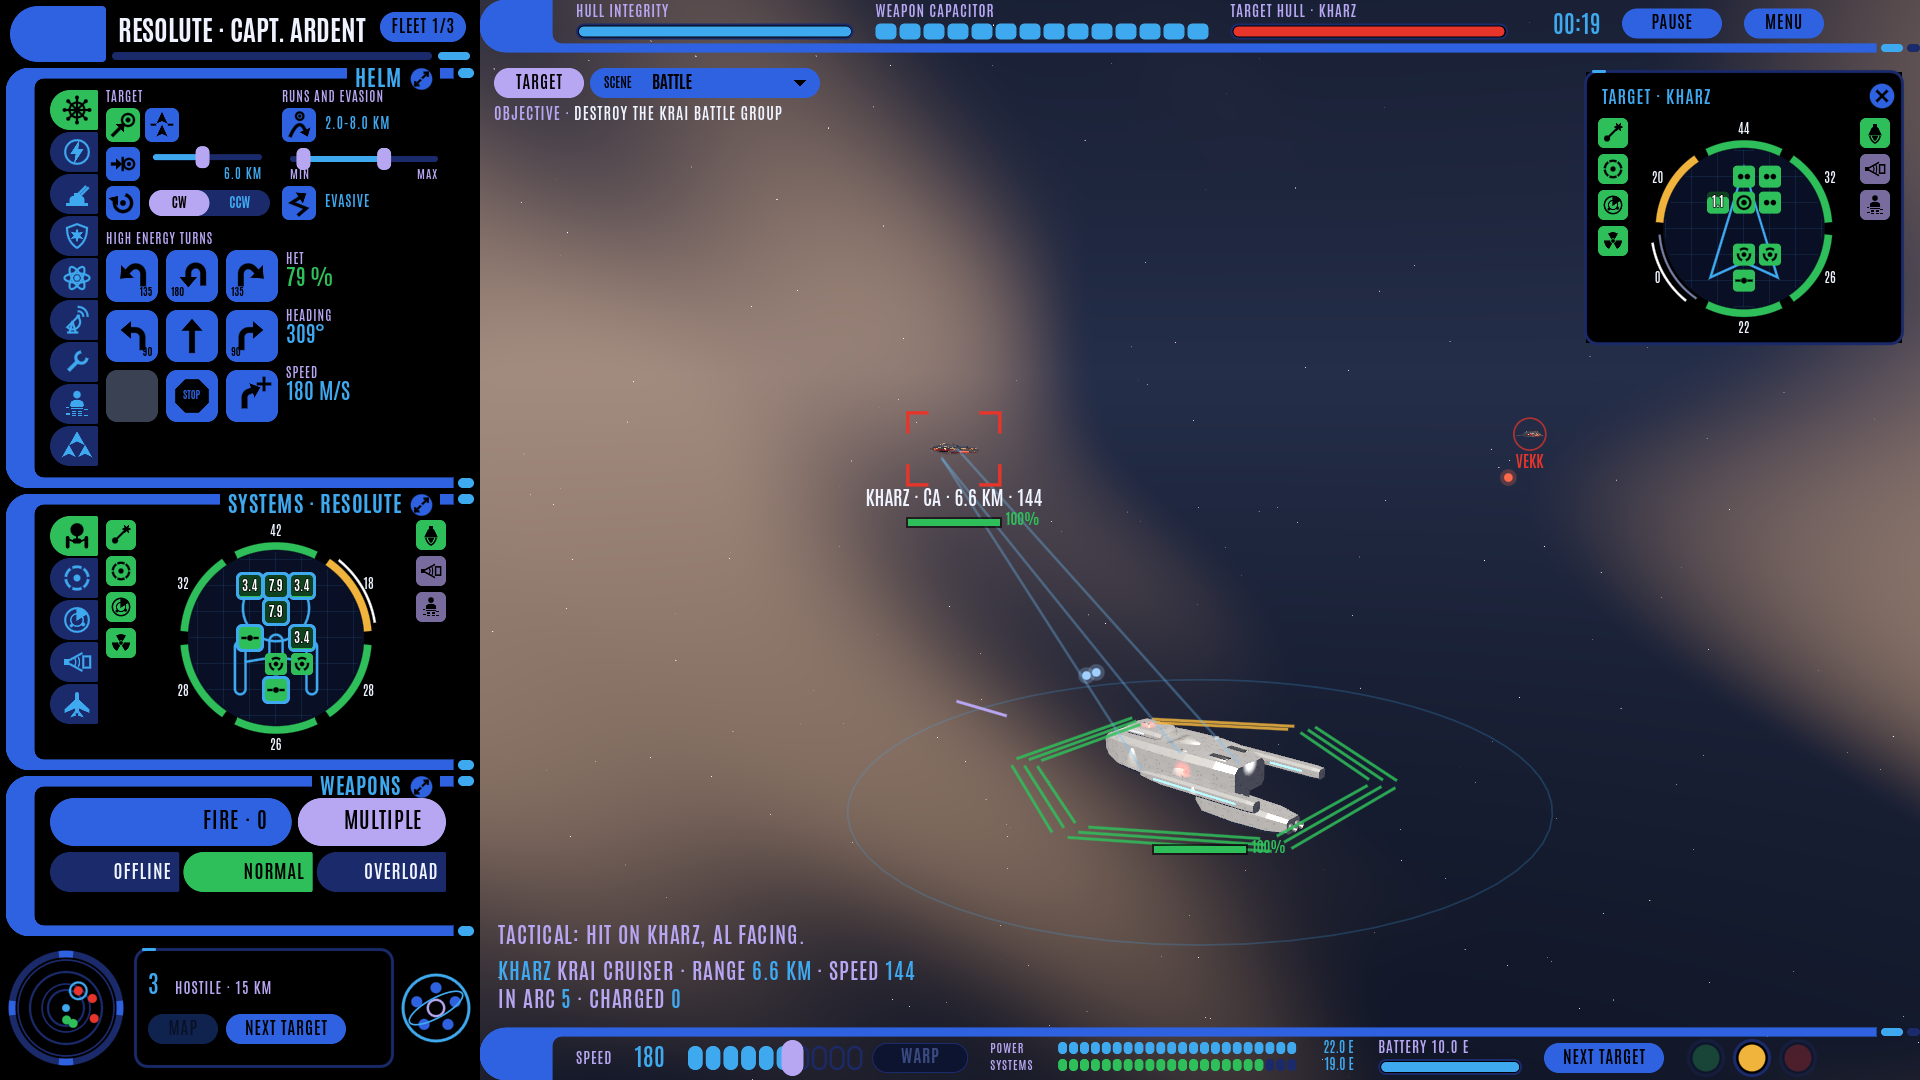
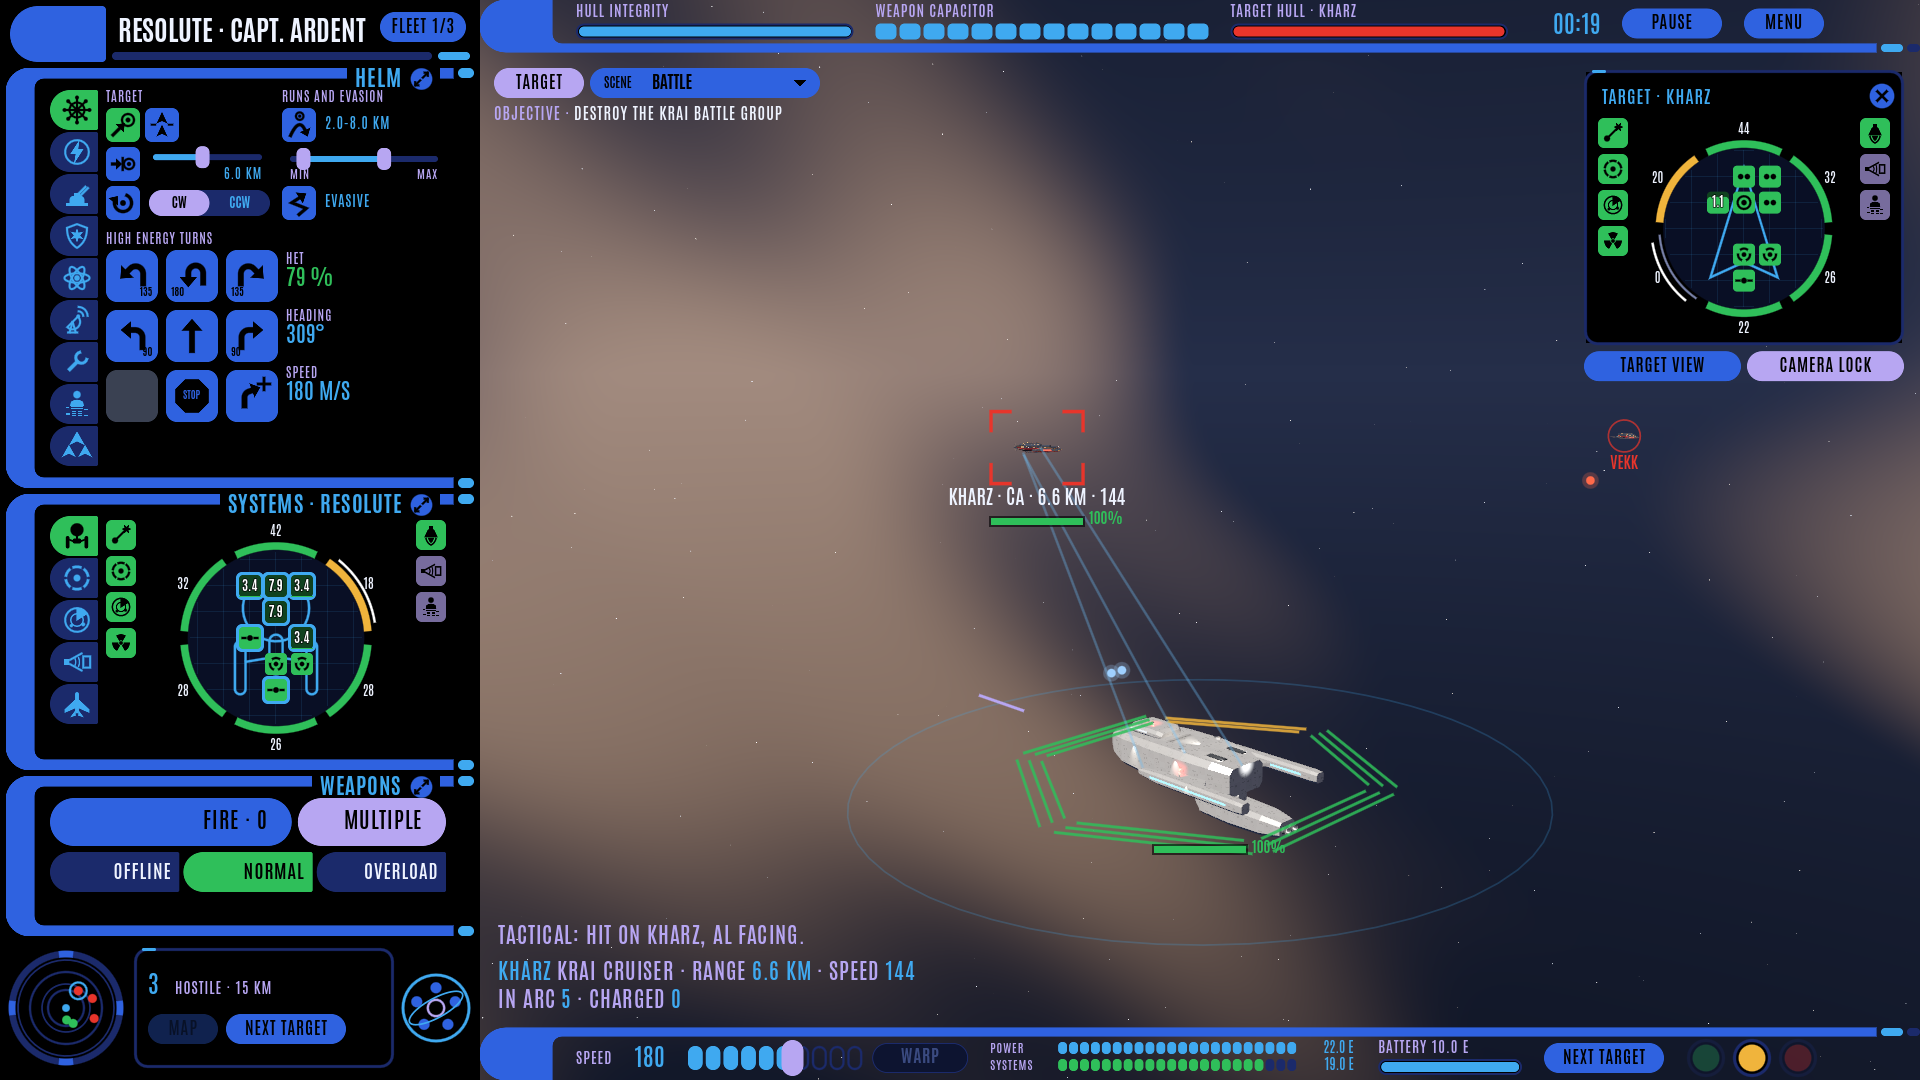
Camera lock and Target view in the game, camera lock the default on every target
Battle console design 4e and 4n (owner, 2026-11-04: "camera lock is mandatory", "camera lock is the default when
targeting other ships"): locking a target locks the camera, which turns round your ship toward the target on the
mockup's critically damped spring (2.5 per second, at most 90 degrees a second), pitch and zoom staying the player's;
a drag frees it. Two keys under the Target box in both skins: Target view glides the camera's centre to the target over
1.1 s and orbits it (on to the next target locked, back when switched off), Camera lock brings it home, locked. The bot
uses both keys in every battle run; stills of each skin in Target view. Tests 44 of 44, parity 2,780 controls, the
suite 6 of 6.

Claude-Session: https://claude.ai/code/session_01RGPQuuZGDkoMSefd8wgfoQ

diff --git a/src/Game/View/BattleView.cs b/src/Game/View/BattleView.cs
@@ -6,6 +6,13 @@
 // playing. A class with a model is drawn as its approved ship (assets/ships/, exported from the ship mockups: the Concord
 // line, mockup 6, and the Krai line, mockup 7), scaled to the class's battle length; the factions whose ships are not
 // designed yet keep their stand-ins (scenes/standins).
+// The camera lock and Target view (battle-console design 4e and 4n; owner, 2026-11-02: "camera needs to yaw to face the
+// enemy target", "we'll want to smooth that rotation", "break camera lock into two buttons, target view ... camera
+// lock, focuses camera on the player from target view"; 2026-11-04: "camera lock is mandatory"): locking a target locks
+// the camera, which then turns round your ship toward the target on a critically damped spring (it eases in and out
+// and never overshoots), keeping the player's pitch and zoom; a drag frees it, and the Camera lock key sets it again.
+// Target view glides the orbit's centre to the target (and on to the next one locked) and back when switched off. Both
+// are the player's to set; the camera is never turned against their will (CLAUDE.md 8).
 using System;
 using System.Collections.Generic;
 using FleetCommand.Data;
@@ -29,6 +36,21 @@ public sealed partial class BattleView : Node3D
 
     /// <summary>Camera orbit: yaw round the ship (radians, 0 looking north from the south), pitch above the plane, distance in units.</summary>
     public float Yaw, Pitch = 0.367f, Dist = 13.9f;
+
+    /// <summary>The camera lock's spring: natural rate (per second) and fastest turn (degrees a second), the mockup's CAM_LOCK.</summary>
+    public const float LockOmegaS = 2.5f, LockMaxDegS = 90f;
+    /// <summary>How long Target view's glide to a ship (or back) takes, seconds.</summary>
+    public const float GlideS = 1.1f;
+
+    /// <summary>The camera turns to keep the target ahead of your ship.</summary>
+    public bool CamLock { get; private set; }
+    /// <summary>The camera orbits the target instead of your ship.</summary>
+    public bool TargetView { get; private set; }
+    private float _yawVel;
+    private string? _lastTarget;
+    private Vector3 _focus, _glideFrom;
+    private float _glideT = GlideS;
+    private bool _focusSet;
 
     public void Init(ConsoleContext ctx)
     {
@@ -117,10 +139,11 @@ public sealed partial class BattleView : Node3D
     /// <summary>The view rectangle and the whole screen, in console units.</summary>
     public void SetViewRect(Rect2 view, Vector2 screen) { _view = view; _screen = screen; }
 
-    public override void _Process(double delta) => Sync();
+    public override void _Process(double delta) => Sync(delta);
 
-    /// <summary>Moves every model to its ship and the camera to the ship you command.</summary>
-    public void Sync()
+    /// <summary>Moves every model to its ship and the camera to the ship you command (or, in Target view, its target);
+    /// dt (seconds of real time) turns a locked camera and moves a glide on.</summary>
+    public void Sync(double dt = 0)
     {
         Battle b = _x.Battle;
         ShipSkin.Flash(_strobes, Time.GetTicksMsec() / 1000.0);
@@ -132,7 +155,16 @@ public sealed partial class BattleView : Node3D
             m.Rotation = new Vector3(0, -(float)s.H, 0);
         }
         Ship p = b.Player;
-        var focus = new Vector3((float)(p.X / MPerU), 0, (float)(p.Z / MPerU));
+        FollowTarget(p);
+        LockStep(p, dt);
+        Ship? tv = TargetView ? b.TargetOf(p) : null;
+        Ship f = tv ?? p;
+        var want = new Vector3((float)(f.X / MPerU), 0, (float)(f.Z / MPerU));
+        if (!_focusSet) { _focus = want; _focusSet = true; }
+        _glideT = Math.Min(GlideS, _glideT + (float)dt);
+        float k = _glideT / GlideS, e = k * k * (3 - 2 * k);   // eased in and out
+        _focus = _glideT < GlideS ? _glideFrom.Lerp(want, e) : want;
+        Vector3 focus = _focus;
         var off = new Vector3(Mathf.Sin(Yaw) * Mathf.Cos(Pitch), Mathf.Sin(Pitch), Mathf.Cos(Yaw) * Mathf.Cos(Pitch)) * Dist;
         _cam.Position = focus + off;
         _cam.LookAt(focus, Vector3.Up);
@@ -169,11 +201,55 @@ public sealed partial class BattleView : Node3D
         return (q.X * MPerU, q.Z * MPerU);
     }
 
+    /// <summary>The player's drag: turns and tilts the camera, and frees the camera lock (zoom does not).</summary>
     public void Orbit(Vector2 drag)
     {
+        CamLock = false;
         Yaw -= drag.X * 0.006f;
         Pitch = Mathf.Clamp(Pitch + drag.Y * 0.004f, 0.08f, 1.45f);
     }
 
     public void Zoom(float factor) => Dist = Mathf.Clamp(Dist * factor, 5, 220);
+
+    /// <summary>The Camera lock key: back to your own ship (out of Target view) with the camera locked on the target.</summary>
+    public void LockCamera()
+    {
+        if (_x.Battle.TargetOf(_x.Battle.Player) == null) return;
+        if (TargetView) { TargetView = false; StartGlide(); }
+        CamLock = true;
+    }
+
+    /// <summary>The Target view key: the camera glides to the target and orbits it; again, it glides back to your ship.</summary>
+    public void ToggleTargetView()
+    {
+        TargetView = !TargetView && _x.Battle.TargetOf(_x.Battle.Player) != null;
+        if (TargetView) CamLock = false;
+        StartGlide();
+    }
+
+    private void StartGlide() { _glideFrom = _focus; _glideT = 0; }
+
+    // Follows the player's target: camera lock is the default when targeting a ship (owner, 2026-11-04: "camera lock is
+    // the default when targeting other ships"), so a new lock locks the camera (in Target view it glides there instead);
+    // no target, no lock.
+    private void FollowTarget(Ship p)
+    {
+        string? id = _x.Battle.TargetOf(p)?.Id;   // a target destroyed counts as none
+        if (id == _lastTarget) return;
+        _lastTarget = id;
+        if (id == null) { if (TargetView) StartGlide(); CamLock = false; TargetView = false; return; }
+        if (TargetView) StartGlide();
+        else CamLock = true;
+    }
+
+    // The locked camera's turn: the yaw a critically damped spring toward the bearing that puts the target ahead.
+    private void LockStep(Ship p, double dt)
+    {
+        Ship? t = _x.Battle.TargetOf(p);
+        if (!CamLock || TargetView || t == null || dt <= 0) { _yawVel = 0; return; }
+        float want = Mathf.Atan2(-(float)(t.X - p.X), -(float)(t.Z - p.Z));
+        float d = Mathf.Wrap(want - Yaw, -Mathf.Pi, Mathf.Pi), w = LockOmegaS, vmax = Mathf.DegToRad(LockMaxDegS);
+        _yawVel = Mathf.Clamp(_yawVel + (w * w * d - 2 * w * _yawVel) * (float)dt, -vmax, vmax);
+        Yaw += _yawVel * (float)dt;
+    }
 }

diff --git a/src/Game/Main.cs b/src/Game/Main.cs
@@ -311,7 +311,8 @@ public sealed partial class Main : Node
     };
 
     /// <summary>Plays the battle for --steps (default 600) as the mockup's scripted shots do (target locked, intercepting), sets the console as asked
-    /// (--station, --page, --expand, --reinforce, --menu, --paused, --scene-list, --zoom=factor), saves a PNG and quits. The window size is
+    /// (--station, --page, --expand, --reinforce, --menu, --paused, --scene-list, --zoom=factor, --target-view: the camera glided
+    /// to the target), saves a PNG and quits. The window size is
     /// Godot's own --resolution flag.</summary>
     private async System.Threading.Tasks.Task Still(string path)
     {
@@ -331,7 +332,10 @@ public sealed partial class Main : Node
         if (_args.ContainsKey("paused")) _x.State.Paused = true;
         if (_args.ContainsKey("scene-list")) _x.State.SceneOpen = true;
         if (_args.TryGetValue("zoom", out string? zm)) _view.Zoom(float.Parse(zm, System.Globalization.CultureInfo.InvariantCulture));
-        for (int i = 0; i < 4; i++) await ToSignal(GetTree(), SceneTree.SignalName.ProcessFrame);
+        bool tview = _args.ContainsKey("target-view");
+        if (tview) _view.ToggleTargetView();
+        // a glide takes BattleView.GlideS of real time: wait it out (and a little more) before the shot
+        for (int i = 0; i < (tview ? 120 : 4); i++) await ToSignal(GetTree(), SceneTree.SignalName.ProcessFrame);
         Relayout();
         for (int i = 0; i < 4; i++) await ToSignal(GetTree(), SceneTree.SignalName.ProcessFrame);
         await ToSignal(RenderingServer.Singleton, RenderingServer.SignalName.FramePostDraw);

diff --git a/src/Game/View/ViewOverlay.cs b/src/Game/View/ViewOverlay.cs
@@ -261,6 +261,11 @@ public sealed partial class ViewOverlay : Control, Ui.IControlSource
             DrawLine(xr.Position + new Vector2(7, 7), xr.Position + new Vector2(17, 17), xi, 2.6f, true);
             DrawLine(xr.Position + new Vector2(17, 7), xr.Position + new Vector2(7, 17), xi, 2.6f, true);
             SystemsDisplay.Draw(this, _ui, _x, t, new Rect2(bx + 14, by + 44, w - 28, h - 58), false, "tgt");
+            // the camera's two keys under the box (battle-console design 4n): Target view, and Camera lock back on your ship
+            float kw = (w - 6) / 2, ky = by + h + 6;
+            Key("v.tview", new Rect2(bx, ky, kw, 30), "Target view", _view.ToggleTargetView, _view.TargetView, "The camera glides to the target and orbits it");
+            Key("v.camlock", new Rect2(bx + kw + 6, ky, kw, 30), "Camera lock", _view.LockCamera, _view.CamLock && !_view.TargetView,
+                "Keep the target ahead of your ship (a drag frees it)");
         }
     }
 

diff --git a/docs/design/mockup-sync.md b/docs/design/mockup-sync.md
@@ -35,7 +35,7 @@ Everything below is open in both skins: the Krai console is mockup 2's page in a
 | Boarding defence (v72) | The Security page, the deck plan in 3D, teams and boarders | Not built | `boarding-defence` |
 | Wide keys, target weapons (v74) | Wide keys; the target's weapons as aim keys; point defence and missiles independently powered | Not built | `weapon-targeting` |
 | Test scenes | Seventeen scenes | Battle, Duel and Arming, from both sides, the Krai against the Concord in the approved ships only | `battle-scenarios` 2.1-2.5 |
-| Target box | Holder's emblem, boarding tug of war, Target view and Camera lock | The target's systems display and the release X | `battle-console-engine` 2.2 |
+| Target box | Holder's emblem, boarding tug of war | The target's systems display, the release X, and (2026-11-04) Target view and Camera lock: camera lock is the default on every target lock, a drag frees it (`docs/screenshots/game/target-view.png`) | `battle-console-engine` 2.2 |
 | Backdrop | Nebula sky with streaking dust | A simpler haze and stars | `battle-console-engine` |
 | The ships in the view | A stand-in Concord block against Kethran and Vos ships (v74, mockup 8 v14) | The approved ships, the Krai against the Concord only (owner: "NO PLACE HOLDERS SHOULD BE USED FOR KRAI VS CONCORD"); here the mockups are behind the game (sheets 2026-11-04: `docs/screenshots/compare/`) | the mockups' next version |
 
